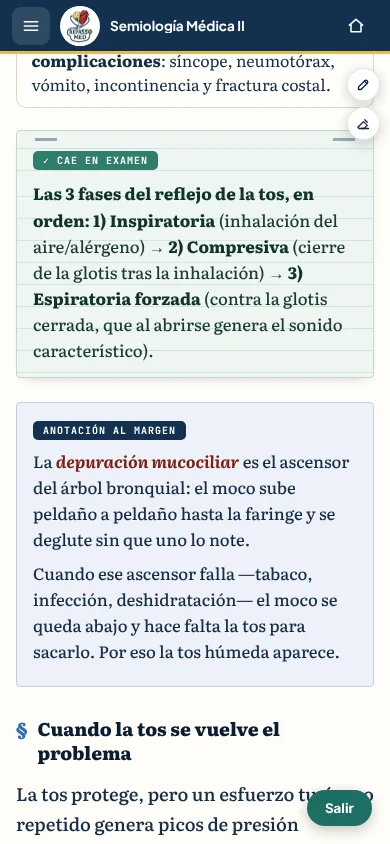
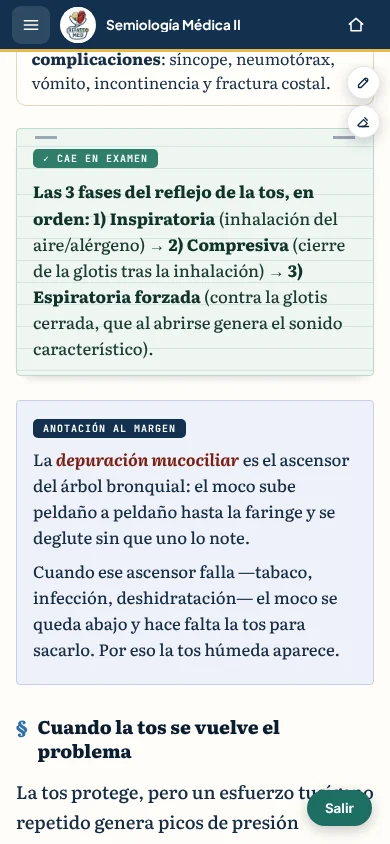
fix(semiologia-ii): visual negado por padrão (RM_PILOT_VISUAL_UIDS obrigatória) + entrada compacta no piloto
- get-pilot-flags: `visual` só com `layout` E UID em RM_PILOT_VISUAL_UIDS; variável ausente/vazia ⇒ ninguém vê o tema (sem herança do layout)
- rm-materia-sistema: cabeçalho global/abas/faixa compactos só no piloto (≈176 → ≈138 px), UMA logo (a marca da faixa só aparece quando ela gruda), controles globais e sticky preservados
- testes: pilot-flags.test.cjs (10), sistema.test.cjs (68: entrada compacta, índice lateral, caneta); capturas desktop/tablet/celular atualizadas + antes/depois

Claude-Session: https://claude.ai/code/session_01JLPWR64NLJn2bckj9LWwJP

diff --git a/Repasso-Med-Site--main/Atual - Copia/assets/rm-materia-sistema.css b/Repasso-Med-Site--main/Atual - Copia/assets/rm-materia-sistema.css
@@ -56,11 +56,12 @@ html.rm-sis {
   --rm-p4-note-bg: #FFE27A;
   --rm-ok: #2F7D6A; --rm-ko: #C0392B;
   /* medidas */
-  --rm-hdr-h: 60px;                                     /* faixa (o layout mede o offsetHeight real) */
+  --rm-hdr-h: 56px;                                     /* faixa (o layout mede o offsetHeight real) */
+  --rm-top-h: 44px; --rm-tabs-h: 38px;                  /* cabeçalho GLOBAL do site, compacto só no piloto */
   --rm-sheet-max: 1000px;
   --rm-measure: 780px;
 }
-@media (max-width: 699.98px) { html.rm-sis { --rm-hdr-h: 54px; } }
+@media (max-width: 699.98px) { html.rm-sis { --rm-hdr-h: 52px; --rm-top-h: 42px; --rm-tabs-h: 38px; } }
 
 /* ---------------------------------------------------------------------
    2 · TEMA POR MATÉRIA — só variáveis
@@ -168,6 +169,30 @@ html.rm-sis .rm-sis-pill.is-on { background: var(--rm-gold); color: var(--rm-nav
 @media (max-width: 1099.98px) { html.rm-sis .rm-sis-brand, html.rm-sis .rm-sis-sep { display: none; } }
 @media (max-width: 559.98px) { html.rm-sis .rm-sis-brand, html.rm-sis .rm-sis-sep { display: none; } html.rm-sis .rm-l2-name b { font-size: 13.5px; } }
 html.rm-sis .rm-l2-band button:focus-visible { outline: 3px solid var(--rm-gold); }
+
+
+/* ---------------------------------------------------------------------
+   5-A · ENTRADA COMPACTA (só no piloto): cabeçalho global + abas + faixa da matéria numa pilha curta, com UMA logo
+   O cabeçalho global (marca, «Caja de sugerencias», usuário) e as abas de matérias continuam ali e funcionam (mesmos botões, mesmos ids);
+   só ficam mais baixos. A logo/marca da faixa só aparece quando ela GRUDA no topo (html[data-rm-stuck]) — enquanto o cabeçalho global
+   está à vista, a marca já está nele: nada de duas logos. A faixa continua sendo o único elemento fixo (sticky).
+   --------------------------------------------------------------------- */
+html.rm-sis.rm-l2 .rm-topbar { height: var(--rm-top-h); padding: 0 16px; gap: 10px; }
+html.rm-sis.rm-l2 .rm-topbar img { height: 30px; }
+html.rm-sis.rm-l2 .rm-brand-word b { font-size: 1.02rem; }
+html.rm-sis.rm-l2 .rm-brand-word small { font-size: .52rem; margin-top: .15rem; }
+html.rm-sis.rm-l2 .main-tabs { height: var(--rm-tabs-h); }
+html.rm-sis.rm-l2 .main-tabs-inner { gap: .1rem; }
+html.rm-sis.rm-l2 .main-tab { padding-top: .35rem; padding-bottom: .35rem; font-size: .84rem; }
+html.rm-sis:not([data-rm-stuck]) .rm-l2-band .rm-l2-logo,
+html.rm-sis:not([data-rm-stuck]) .rm-l2-band .rm-sis-brand,
+html.rm-sis:not([data-rm-stuck]) .rm-l2-band .rm-sis-sep { display: none; }
+html.rm-sis[data-rm-stuck] .rm-l2-band .rm-l2-logo { height: 36px; width: 36px; }
+@media (max-width: 699.98px) {
+  html.rm-sis.rm-l2 .rm-topbar { padding: 0 12px; }
+  html.rm-sis.rm-l2 .rm-topbar img { height: 28px; }
+  html.rm-sis.rm-l2 .main-tabs { height: var(--rm-tabs-h); }
+}
 
 /* ---------------------------------------------------------------------
    6 · C-02 · índice lateral L1-COLOR (superfície mais clara da família do tema)

diff --git a/Repasso-Med-Site--main/Atual - Copia/netlify/functions/get-pilot-flags.js b/Repasso-Med-Site--main/Atual - Copia/netlify/functions/get-pilot-flags.js
@@ -10,18 +10,19 @@
      para manter o contrato das fases seguintes e ficam `false` enquanto a
      variável de ambiente própria não for preenchida.
 
-     `visual` é uma CAMADA SOBRE o Layout V2: só vale para quem também tem
-     `layout`. Variável própria RM_PILOT_VISUAL_UIDS:
-       · não definida → segue `layout` (a conta do piloto já vê o tema);
-       · definida     → só os UIDs da lista (use um valor que não case com
-                        nenhum UID, ex. «-», para apagar SÓ o visual novo
-                        sem tirar o Layout V2 — kill switch do tema).
+     `visual` é uma CAMADA SOBRE o Layout V2 e é NEGADO POR PADRÃO: só vale
+     para quem tem `layout` E está em RM_PILOT_VISUAL_UIDS (lista própria,
+     obrigatória). Variável ausente ou vazia ⇒ `visual:false` para todos —
+     o tema NÃO herda automaticamente a lista do layout, para que quem vê o
+     novo visual seja sempre uma decisão explícita por UID.
+     Kill switch só do tema: esvaziar/remover RM_PILOT_VISUAL_UIDS (o Layout V2
+     continua).
 
    Quem é piloto
      Decidido por UID AUTENTICADO, lido de variáveis de ambiente do
      Netlify (o UID NUNCA entra no repositório):
        RM_PILOT_LAYOUT_UIDS · RM_PILOT_AUDIO_UIDS · RM_PILOT_PEN_UIDS ·
-       RM_PILOT_VISUAL_UIDS (opcional, ver acima)
+       RM_PILOT_VISUAL_UIDS (obrigatória para o tema, ver acima)
      (lista separada por vírgula). Não usa profiles.is_admin, não usa
      e-mail, não usa study_tools_beta, não usa BETA_UIDS da caneta.
      A matéria do piloto é fixa no código: semiologia-ii.
@@ -83,7 +84,6 @@ exports.handler = async function (event) {
     const uidsLayout = lista(process.env.RM_PILOT_LAYOUT_UIDS);
     const uidsAudio  = lista(process.env.RM_PILOT_AUDIO_UIDS);
     const uidsPen    = lista(process.env.RM_PILOT_PEN_UIDS);
-    const visualDef  = process.env.RM_PILOT_VISUAL_UIDS !== undefined;     // definida (mesmo vazia) = lista própria; ausente = segue `layout`
     const uidsVisual = lista(process.env.RM_PILOT_VISUAL_UIDS);
     if (!uidsLayout.length && !uidsAudio.length && !uidsPen.length) return resp(NEGADO, 'denied');
 
@@ -101,7 +101,7 @@ exports.handler = async function (event) {
       audio:  uidsAudio.indexOf(uid) !== -1,
       pen:    uidsPen.indexOf(uid) !== -1
     };
-    flags.visual = flags.layout && (visualDef ? uidsVisual.indexOf(uid) !== -1 : true);   // camada sobre o Layout V2: nunca sem `layout`
+    flags.visual = flags.layout && uidsVisual.indexOf(uid) !== -1;   // negado por padrão: lista própria obrigatória; camada sobre o Layout V2 (nunca sem `layout`)
     return resp(flags, flags.layout || flags.audio || flags.pen ? 'pilot' : 'denied');
   } catch (e) {
     // nada de detalhe no corpo; o log fica só no servidor

diff --git a/Repasso-Med-Site--main/Atual - Copia/assets/rm-materia-sistema.js b/Repasso-Med-Site--main/Atual - Copia/assets/rm-materia-sistema.js
@@ -487,6 +487,19 @@
 
     S.h.click = aoClicar;
     document.addEventListener('click', S.h.click);
+    /* faixa grudada no topo? (o cabeçalho global já saiu da tela) → só então ela mostra a marca */
+    S.h.stuck = function () {
+      if (!S || S.stuckPend) return;
+      S.stuckPend = true;
+      requestAnimationFrame(function () {
+        if (!S) return; S.stuckPend = false;
+        var g = S.band.getBoundingClientRect().top <= 1;
+        if (g) ROOT.setAttribute('data-rm-stuck', ''); else ROOT.removeAttribute('data-rm-stuck');
+      });
+    };
+    window.addEventListener('scroll', S.h.stuck, { passive: true });
+    window.addEventListener('resize', S.h.stuck);
+    S.h.stuck();
     window.RMModes.onChange(function () { refletir(); });
     /* posição atual (scroll-spy do próprio layout marca aria-current na lateral): só observa */
     try {
@@ -503,12 +516,20 @@
     } catch (e) {}
     refletir();
     if (window.RMLayout.pedirReposicao) window.RMLayout.pedirReposicao();    // as alturas mudaram: a tinta acompanha (API pública, coalescida)
+    remedir();
+  }
+
+  /* as alturas do cabeçalho mudaram (compacto): pede ao layout que meça a faixa de novo (o handler de resize dele só mede) */
+  function remedir() {
+    requestAnimationFrame(function () { try { window.dispatchEvent(new Event('resize')); } catch (e) {} });
   }
 
   function detach() {
     if (!S) { try { ROOT.classList.remove('rm-sis'); ROOT.removeAttribute('data-rm-tema'); } catch (e) {} return; }
     var tab = S.tab;
     try { document.removeEventListener('click', S.h.click); } catch (e) {}
+    try { window.removeEventListener('scroll', S.h.stuck); window.removeEventListener('resize', S.h.stuck); } catch (e) {}
+    ROOT.removeAttribute('data-rm-stuck');
     try { if (S.mo) S.mo.disconnect(); } catch (e) {}
     NODOS.forEach(function (n) { if (n && n.parentNode) n.parentNode.removeChild(n); });
     ATRS.forEach(function (a) { try { a.e.removeAttribute(a.k); } catch (e) {} });
@@ -518,6 +539,7 @@
     ROOT.classList.remove('rm-sis'); ROOT.removeAttribute('data-rm-tema');
     S = null;
     try { if (window.RMLayout && window.RMLayout.pedirReposicao) window.RMLayout.pedirReposicao(); } catch (e) {}
+    remedir();
   }
 
   window.RMSistema = {

diff --git a/Repasso-Med-Site--main/Atual - Copia/SISTEMA-VISUAL-MATERIAS.md b/Repasso-Med-Site--main/Atual - Copia/SISTEMA-VISUAL-MATERIAS.md
@@ -10,8 +10,10 @@ Só a conta piloto, só em `semiologia-ii`. É uma CAMADA sobre o Layout V2:
 2. com `layout` anexa o Layout V2 (como antes); **só se também `visual === true`** carrega `rm-materia-sistema.css/js`;
 3. falha fechada: sem `visual`, erro de rede ou erro de `attach()` ⇒ nada do sistema entra (o layout fica como estava).
 
-`visual` segue `layout`, a menos que exista `RM_PILOT_VISUAL_UIDS` (lista de UIDs). Kill switch só do tema:
-`RM_PILOT_VISUAL_UIDS=-` (nenhum UID casa) — o Layout V2 continua. Kill switch total: esvaziar as variáveis do piloto.
+**`visual` é negado por padrão.** Só vale para quem tem `layout` **e** está em `RM_PILOT_VISUAL_UIDS` (lista própria, obrigatória: variável
+ausente ou vazia ⇒ ninguém vê o tema; ele **não** herda a lista do layout). Para ativar: definir no Netlify
+`RM_PILOT_VISUAL_UIDS=<UID de José>` (o UID nunca entra no repositório). Kill switch só do tema: remover/esvaziar a variável (o Layout V2 continua).
+Teste: `tools/qa/browser-qa/layout/pilot-flags.test.cjs`.
 
 ## Arquivos
 | arquivo | papel |
@@ -19,7 +21,7 @@ Só a conta piloto, só em `semiologia-ii`. É uma CAMADA sobre o Layout V2:
 | `assets/rm-materia-sistema.css` | tokens + tema + 8 componentes; toda regra começa em `html.rm-sis` |
 | `assets/rm-materia-sistema.js` | lê dados reais do DOM, marca capítulos, monta a UI derivada (`[data-rm-ui]`), `attach/detach` |
 | `assets/img/semio2/vig/vb-00…10.webp` | vinhetas/medalhões aprovados (recortes de infografías, 480 px, WebP) |
-| `tools/qa/browser-qa/layout/sistema.test.cjs` | 48 verificações (falha fechada, conteúdo intacto, contagens, detach, funções, geometria) |
+| `tools/qa/browser-qa/layout/sistema.test.cjs` · `pilot-flags.test.cjs` | falha fechada, conteúdo intacto, contagens, detach, funções, geometria, cabeçalho compacto · gate do servidor |
 | `tools/qa/browser-qa/layout/capturas-sistema.cjs` | capturas desktop/tablet/celular |
 
 ## Estrutura do CSS

diff --git a/tools/qa/browser-qa/layout/capturas-sistema/README.md b/tools/qa/browser-qa/layout/capturas-sistema/README.md
@@ -1,5 +1,7 @@
 # Capturas do sistema visual (piloto Semiología II)
 Geradas por `tools/qa/browser-qa/layout/capturas-sistema.cjs` (Chromium/Playwright, matéria REAL + shell real; gate do piloto simulado com `layout+visual`).
 Desktop 1440×900 · tablet 768×1024 · celular 390×844. Emulação, não aparelho. Fontes (Fraunces, Literata, JetBrains Mono, Plus Jakarta Sans)
-baixadas à parte só para a captura; o cabeçalho do site (faixa escura + abas) acima da faixa da matéria é o do `index.html` real.
-A caixa «Marcador/Goma» flutuante é a toolbox existente (não faz parte do sistema visual).
+baixadas à parte só para a captura. A caixa «Marcador/Goma» flutuante é a toolbox existente (não faz parte do sistema visual).
+
+- `antes/` — abertura (início) como estava no HEAD d637ee5 (cabeçalho global + abas + faixa com 2 logos, ≈ 176 px).
+- `antes-depois_desktop-1440.webp` · `antes-depois_celular-390.webp` — antes × depois da entrada compacta (≈ 138 px, 1 logo; a faixa mostra a marca só quando gruda).
